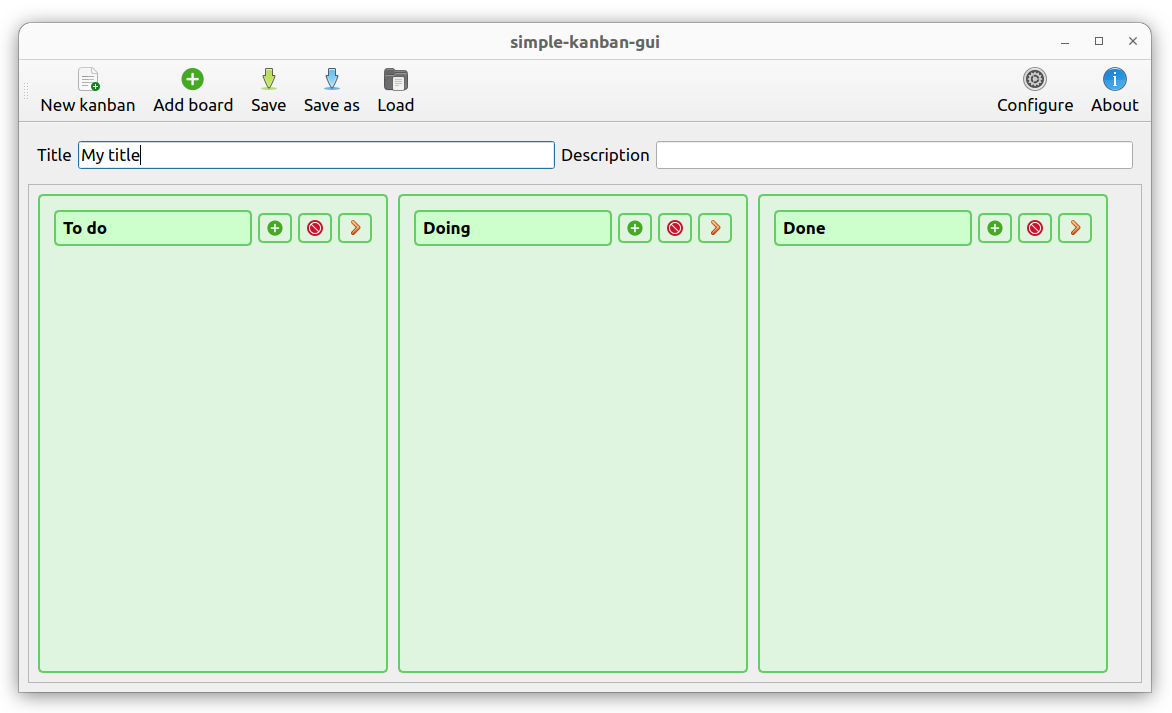
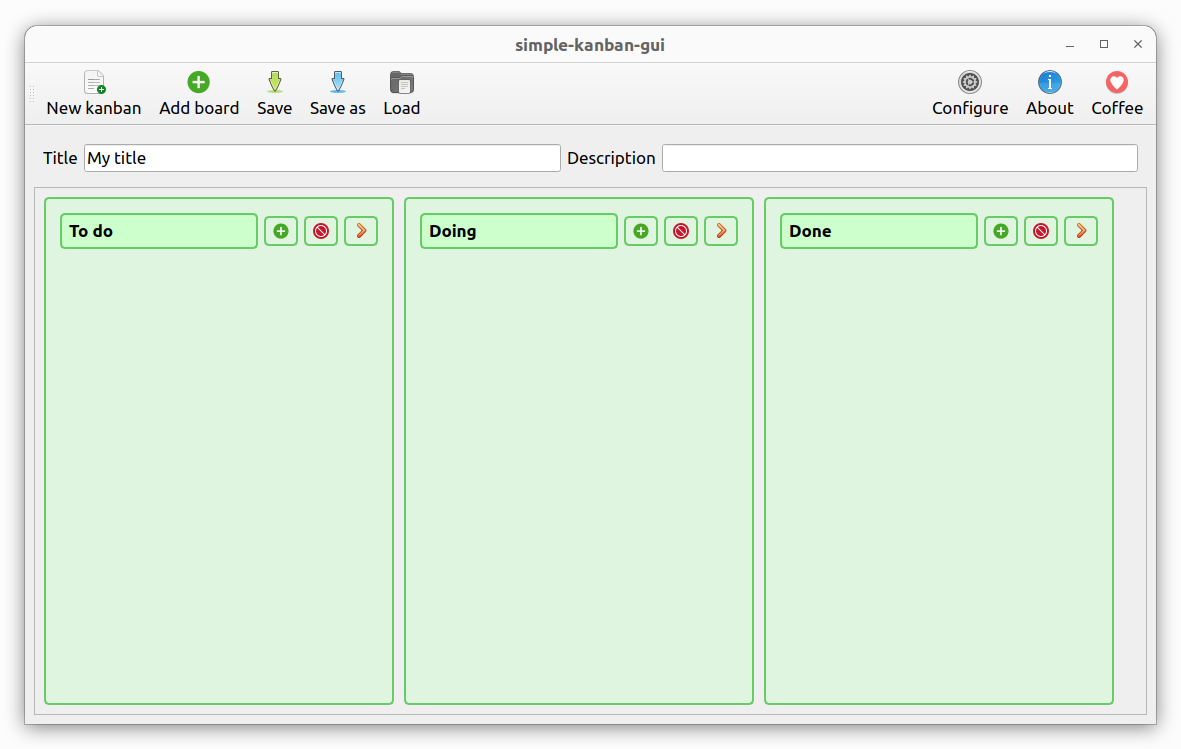
agregando coffe

Changed region(s): [[0.0, 0.0309, 0.9829, 0.9874]]

diff --git a/src/simple_kanban_gui/program.py b/src/simple_kanban_gui/program.py
@@ -10,8 +10,8 @@ from PyQt5.QtWidgets import (
     QMainWindow, QAction, QMessageBox, QSizePolicy, QFrame
 )
 from PyQt5.QtGui import QIcon
-from PyQt5.QtCore import Qt, QMimeData, QByteArray, QDataStream, QIODevice
-from PyQt5.QtGui import QFontMetrics
+from PyQt5.QtCore import Qt, QMimeData, QByteArray, QDataStream, QIODevice, QUrl
+from PyQt5.QtGui import QFontMetrics, QDesktopServices
 from PyQt5 import QtGui
 
 
@@ -38,6 +38,8 @@ DEFAULT_CONTENT={   "toolbar_new_kanban": "New kanban",
                     "toolbar_configure_tooltip": "Open the configure Json file",
                     "toolbar_about": "About",
                     "toolbar_about_tooltip": "About the program",
+                    "toolbar_coffee": "Coffee",
+                    "toolbar_coffee_tooltip": "Buy me a coffee (TrucomanX)",
                     "window_filename": "Filename:",
                     "window_path_problems": "Path problems!",
                     "window_error_loading": "Error when loading:",
@@ -352,13 +354,21 @@ class KanbanWindow(QMainWindow):
         spacer = QWidget()
         spacer.setSizePolicy(QSizePolicy.Expanding, QSizePolicy.Preferred)
 
+        #
         self.configure_action = QAction(QIcon.fromTheme("document-properties"), CONFIG["toolbar_configure"], self)
         self.configure_action.setToolTip(CONFIG["toolbar_configure_tooltip"])
         self.configure_action.triggered.connect(self.open_configure_editor)
         
+        #
         self.about_action = QAction(QIcon.fromTheme("help-about"), CONFIG["toolbar_about"], self)
         self.about_action.setToolTip(CONFIG["toolbar_about_tooltip"])
         self.about_action.triggered.connect(self.open_about)
+        
+        # Coffee
+        self.coffee_action = QAction(QIcon.fromTheme("emblem-favorite"), CONFIG["toolbar_coffee"], self)
+        self.coffee_action.setToolTip(CONFIG["toolbar_coffee_tooltip"])
+        self.coffee_action.triggered.connect(self.on_coffee_action_click)
+
 
         self.toolbar.addAction(self.new_kanban_action)
         self.toolbar.addAction(self.add_column_action)
@@ -368,7 +378,8 @@ class KanbanWindow(QMainWindow):
         self.toolbar.addWidget(spacer)
         self.toolbar.addAction(self.configure_action)
         self.toolbar.addAction(self.about_action)
-
+        self.toolbar.addAction(self.coffee_action)
+        
         central_widget = QWidget()
         self.setCentralWidget(central_widget)
 
@@ -420,6 +431,9 @@ class KanbanWindow(QMainWindow):
         if len(filepath)>0:
             self.load_from_file(filepath)
 
+    def on_coffee_action_click(self):
+        QDesktopServices.openUrl(QUrl("https://ko-fi.com/trucomanx"))
+        
     def func_new_kanban(self):
         subprocess.Popen([sys.executable, __file__])
 

diff --git a/src/simple_kanban_gui/about.py b/src/simple_kanban_gui/about.py
@@ -1,6 +1,6 @@
 # about.py
 
-__version__ = "0.1.6"
+__version__ = "0.1.7"
 __package__ = "simple_kanban_gui"
 __program_name__ = "simple-kanban-gui"
 __author__ = "Fernando Pujaico Rivera" 
